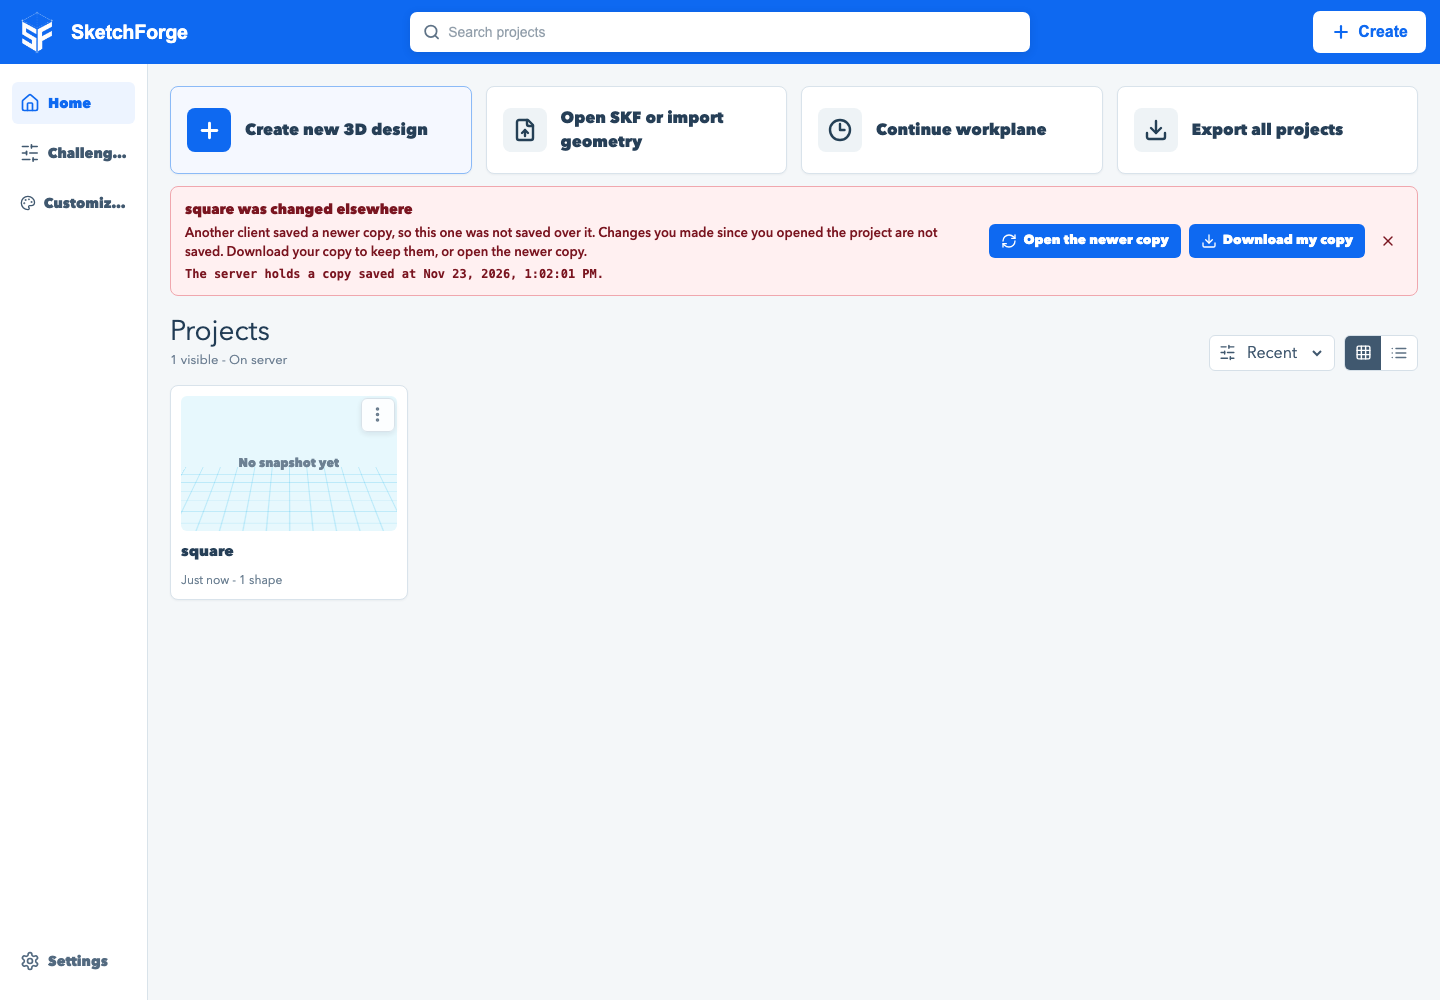
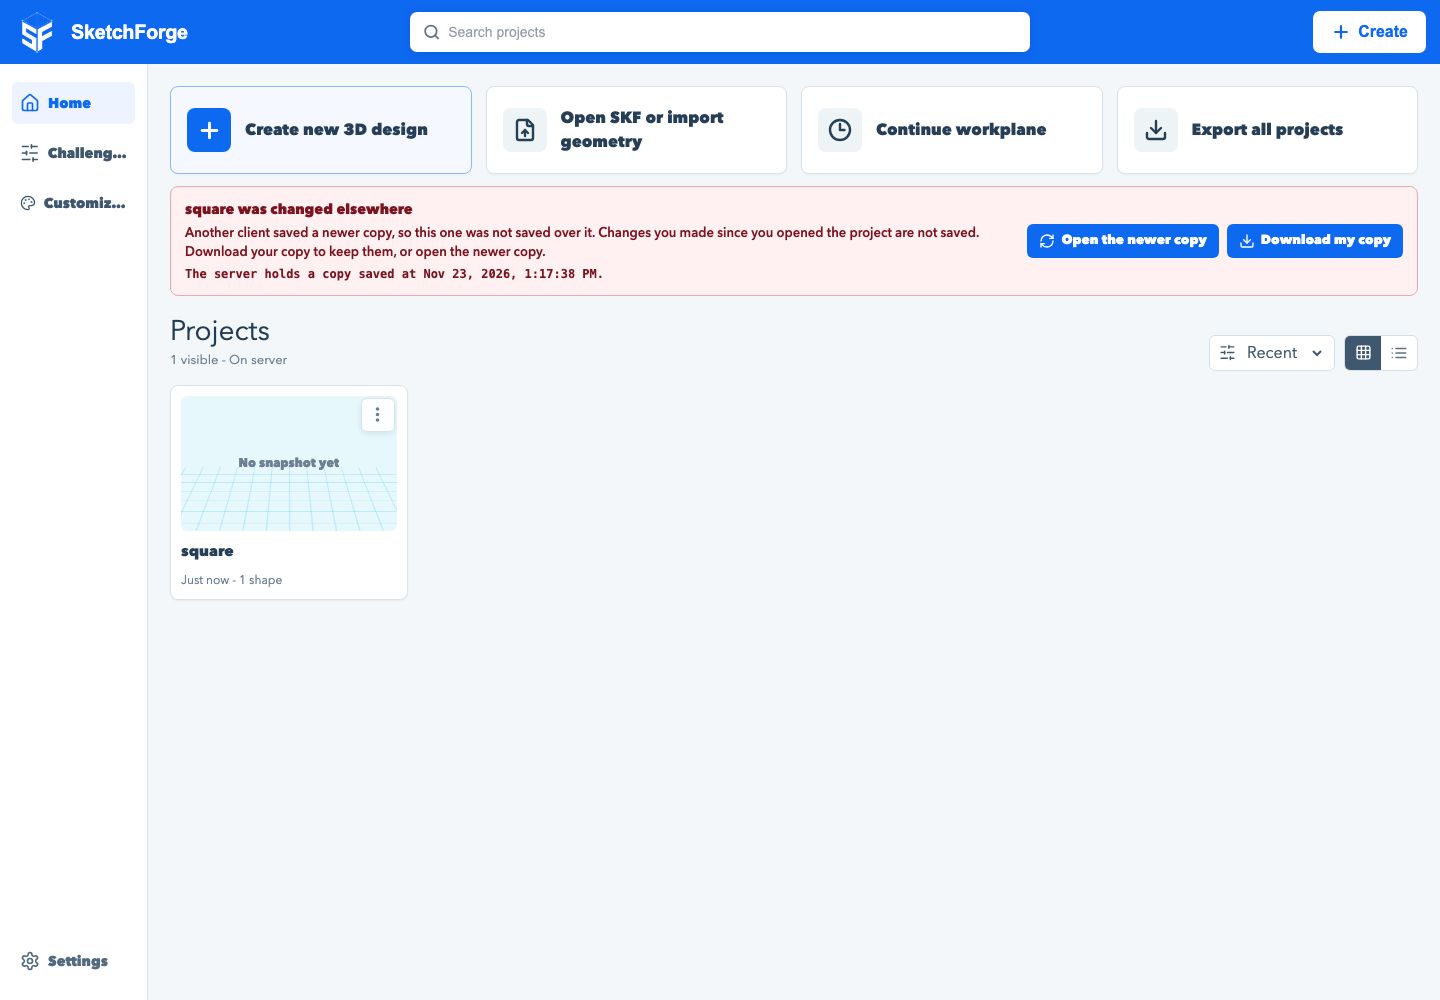
fix(web): keep every refused edit, survive clock skew, and base Start over on what was served
Review follow-ups for #650, in the dashboard.

- Download my copy kept only the save the server refused. An edit
  queued behind it was dropped by the guard and the cache entry was
  deleted, so the newest edits were lost. The page now records every
  editor snapshot and offers the newest of it and the refused save; a
  snapshot published after the conflict replaces it too.
- A client whose clock is behind the last writer's produced revisions
  older than the stored one, so every save was refused. Loading a copy
  now raises the revision counter past the served revision.
- The conflict banner has no Dismiss, so the unsaved copy stays
  downloadable until the newer copy is opened.
- Start over on a server project is based on the revision the failed
  load was served at, including a missing package's 404. If another
  client saved since, it is refused and says so.

Changed region(s): [[0.6562, 0.217, 1.0, 0.279], [0.125, 0.248, 0.4062, 0.279]]

diff --git a/apps/web/src/app/page.tsx b/apps/web/src/app/page.tsx
@@ -238,6 +238,8 @@ const projectWriteGuard = createProjectWriteGuard();
 // refuses a package write whose base is older than what it holds. No entry means
 // an unconditional write: a new project, or a confirmed start over.
 const serverBaseRevisions = new Map<string, number>();
+// The sidecar revision each server project was last served at, readable or not.
+const servedRevisions = new Map<string, number>();
 
 function openProjectShapesDb() {
   return new Promise<IDBDatabase>((resolve, reject) => {
@@ -286,7 +288,7 @@ function readProjectShapeRecord(database: IDBDatabase, projectId: string) {
 async function readStoredProjectCopy(projectId: string): Promise<{ bytes: Uint8Array; format: "skf" | "json" } | null> {
   if (serverProjectStorageActive) {
     const served = await fetchServerProjectPackage(projectId);
-    return served ? { bytes: served.bytes, format: "skf" } : null;
+    return served.bytes ? { bytes: served.bytes, format: "skf" } : null;
   }
   const database = await openProjectShapesDb();
   try {
@@ -352,9 +354,12 @@ async function loadProjectShapes(projectId: string) {
 async function readProjectShapes(projectId: string) {
   if (serverProjectStorageActive) {
     const served = await fetchServerProjectPackage(projectId);
+    // Kept even when the copy fails to load, so Start over replaces only what was seen.
+    if (served.revision === undefined) servedRevisions.delete(projectId);
+    else servedRevisions.set(projectId, served.revision);
     // The listing came from metadata sidecars, so this project has one. A missing or
     // symlinked package is not an empty project, and autosave must not replace it.
-    if (!served) throw new StoredProjectMissingError();
+    if (!served.bytes) throw new StoredProjectMissingError();
     const packageBytes = served.bytes;
     const restored = await readStoredPackage(packageBytes);
     return {
@@ -762,6 +767,7 @@ export default function Home() {
   const projectConflictRef = useRef<((projectId: string, job: ProjectSaveJob, error: ServerProjectConflictError) => void) | null>(null);
   // Copies a conflict kept from saving, so the user can still download them.
   const conflictedCopiesRef = useRef(new Map<string, ProjectSaveJob>());
+  const latestEditorCopiesRef = useRef(new Map<string, ProjectSaveJob>());
   if (projectSaveQueueRef.current === null) {
     projectSaveQueueRef.current = createCoalescingSaveQueue<ProjectSaveJob>({
       run: (projectId, job) => saveProjectShapesWhenIdle(projectId, job.entry, job.context),
@@ -1105,6 +1111,10 @@ export default function Home() {
           const serverRevision = record && "serverRevision" in record ? record.serverRevision : undefined;
           if (serverRevision === undefined) serverBaseRevisions.delete(activeProjectId);
           else serverBaseRevisions.set(activeProjectId, serverRevision);
+          latestEditorCopiesRef.current.delete(activeProjectId);
+          conflictedCopiesRef.current.delete(activeProjectId);
+          // Revisions come from this clock. One behind the writer's would make every save look older.
+          nextProjectRevisionRef.current = Math.max(nextProjectRevisionRef.current, loadedRevision, serverRevision ?? 0);
         }
         setProjectShapesById((current) => {
           // IndexedDB reads are asynchronous. A local edit/import can update the live
@@ -1324,13 +1334,9 @@ export default function Home() {
     placementWorkplane: PlacementWorkplane;
     sketchPlacementWorkplane: PlacementWorkplane;
   }) => {
-    // The editor publishes after a delay, so a snapshot can arrive after its load failed.
-    if (!projectWriteGuard.canWrite(snapshot.projectId)) return;
     const revision = Math.max(Date.now(), nextProjectRevisionRef.current + 1);
     nextProjectRevisionRef.current = revision;
     const entry = projectShapeCacheEntryFromEditor(revision, snapshot.shapes, snapshot.history, snapshot.historyIndex, snapshot.assets, snapshot.parameters, snapshot.configuration);
-    setProjectShapesById((current) => cacheWithEditorChange(current, snapshot.projectId, entry, projectWriteGuard));
-
     const saveContext: ProjectShapeSaveContext = {
       projectName: snapshot.projectName,
       createdAt: snapshot.projectCreatedAt,
@@ -1340,12 +1346,16 @@ export default function Home() {
       placementWorkplane: normalizePlacementWorkplane(snapshot.placementWorkplane, snapshot.placementElevation),
       sketchPlacementWorkplane: normalizePlacementWorkplane(snapshot.sketchPlacementWorkplane),
     };
-    projectSaveQueueRef.current?.enqueue(snapshot.projectId, {
-      entry,
-      context: saveContext,
-      revision,
-      shapeCount: snapshot.shapes.length,
-    });
+    const job: ProjectSaveJob = { entry, context: saveContext, revision, shapeCount: snapshot.shapes.length };
+    // The newest edit, so a refused save can still be downloaded with everything in it.
+    latestEditorCopiesRef.current.set(snapshot.projectId, job);
+    // The editor publishes after a delay, so a snapshot can arrive after its load failed.
+    if (!projectWriteGuard.canWrite(snapshot.projectId)) {
+      if (conflictedCopiesRef.current.has(snapshot.projectId)) conflictedCopiesRef.current.set(snapshot.projectId, job);
+      return;
+    }
+    setProjectShapesById((current) => cacheWithEditorChange(current, snapshot.projectId, entry, projectWriteGuard));
+    projectSaveQueueRef.current?.enqueue(snapshot.projectId, job);
     autosaveNoticeControllerRef.current?.pending(snapshot.projectId, saveContext.projectName);
   }, []);
 
@@ -1779,12 +1789,17 @@ export default function Home() {
     nextProjectRevisionRef.current = revision;
     const entry = projectShapeCacheEntry(revision, []);
     projectWriteGuard.release(project.id);
-    serverBaseRevisions.delete(project.id);
+    // Replace only the copy that was seen; a save made since then is refused.
+    const seen = servedRevisions.get(project.id);
+    if (seen === undefined) serverBaseRevisions.delete(project.id);
+    else serverBaseRevisions.set(project.id, seen);
     try {
       await saveProjectShapes(project.id, entry, projectShapeSaveContext(project));
     } catch (error) {
       projectWriteGuard.block(project.id);
-      setDashboardNotice(errorText(t, error, "dashboard.storage.saveFailed"));
+      setDashboardNotice(error instanceof ServerProjectConflictError
+        ? t("dashboard.loadFailure.startOverRefused", { name: project.name })
+        : errorText(t, error, "dashboard.storage.saveFailed"));
       return;
     }
     setProjectShapesById((current) => ({ ...current, [project.id]: entry }));
@@ -1817,7 +1832,9 @@ export default function Home() {
   };
 
   projectConflictRef.current = (projectId, job, error) => {
-    conflictedCopiesRef.current.set(projectId, job);
+    // The refused save may not be the newest edit: one can be queued, or still being published.
+    const latest = latestEditorCopiesRef.current.get(projectId);
+    conflictedCopiesRef.current.set(projectId, latest && latest.revision > job.revision ? latest : job);
     const savedAt = new Intl.DateTimeFormat(formattingLocale(locale), { dateStyle: "medium", timeStyle: "medium" }).format(new Date(error.storedRevision));
     setProjectLoadFailures((current) => ({
       ...current,
@@ -1843,7 +1860,9 @@ export default function Home() {
     clearProjectLoadFailure(projectId);
     projectWriteGuard.release(projectId);
     serverBaseRevisions.delete(projectId);
+    servedRevisions.delete(projectId);
     conflictedCopiesRef.current.delete(projectId);
+    latestEditorCopiesRef.current.delete(projectId);
     setProjects((current) => current.filter((project) => project.id !== projectId));
     setProjectShapesById((current) => {
       const next = { ...current };
@@ -2642,9 +2661,12 @@ function Dashboard({
                         {t("dashboard.loadFailure.startOver")}
                       </button>
                     ) : null}
-                    <button className="dashboard-load-failure-dismiss" type="button" aria-label={t("dashboard.loadFailure.dismiss", { name: project.name })} onClick={() => onDismissLoadFailure(project)}>
-                      <X size={16} />
-                    </button>
+                    {/* Dismissing would leave this client's unsaved copy with no way to download it. */}
+                    {kind !== "conflict" ? (
+                      <button className="dashboard-load-failure-dismiss" type="button" aria-label={t("dashboard.loadFailure.dismiss", { name: project.name })} onClick={() => onDismissLoadFailure(project)}>
+                        <X size={16} />
+                      </button>
+                    ) : null}
                   </div>
                 </section>
               ))}

diff --git a/tests/unit/projectWriteGuardWiring.test.ts b/tests/unit/projectWriteGuardWiring.test.ts
@@ -46,9 +46,22 @@ describe("dashboard package writes", () => {
     expect(write).toContain("serverBaseRevisions.set(projectId, entry.revision);");
   });
 
-  it("drops a late editor snapshot for a blocked project before it touches the cache", () => {
-    expect(page).toMatch(/const updateProjectShapes = useCallback\(\(snapshot: \{[\s\S]*?\}\) => \{\s*(?:\/\/[^\n]*\n\s*)*if \(!projectWriteGuard\.canWrite\(snapshot\.projectId\)\) return;/);
-    expect(page).toMatch(/setProjectShapesById\(\(current\) => cacheWithEditorChange\(current, snapshot\.projectId, entry, projectWriteGuard\)\)/);
+  it("bases a start over on the revision that was served, and raises the clock past a loaded revision", () => {
+    expect(page).toMatch(/const seen = servedRevisions\.get\(project\.id\);\s*if \(seen === undefined\) serverBaseRevisions\.delete\(project\.id\);\s*else serverBaseRevisions\.set\(project\.id, seen\);/);
+    expect(page).toMatch(/nextProjectRevisionRef\.current = Math\.max\(nextProjectRevisionRef\.current, loadedRevision, serverRevision \?\? 0\);/);
+  });
+
+  it("drops a late editor snapshot for a blocked project before it touches the cache or the queue", () => {
+    const body = page.slice(page.indexOf("const updateProjectShapes = useCallback("), page.indexOf("const updateProjectWorkspace = useCallback("));
+    const guard = body.indexOf("if (!projectWriteGuard.canWrite(snapshot.projectId)) {");
+    expect(guard).toBeGreaterThan(-1);
+    expect(body.slice(guard)).toMatch(/^if \(!projectWriteGuard\.canWrite\(snapshot\.projectId\)\) \{[^}]*return;\s*\}/);
+    expect(body.indexOf("setProjectShapesById(")).toBeGreaterThan(guard);
+    expect(body.indexOf(".enqueue(")).toBeGreaterThan(guard);
+    expect(body).toMatch(/setProjectShapesById\(\(current\) => cacheWithEditorChange\(current, snapshot\.projectId, entry, projectWriteGuard\)\)/);
+    // Recorded before the guard, so a refused save can still be downloaded with every edit.
+    expect(body.indexOf("latestEditorCopiesRef.current.set(snapshot.projectId, job)")).toBeGreaterThan(-1);
+    expect(body.indexOf("latestEditorCopiesRef.current.set(snapshot.projectId, job)")).toBeLessThan(guard);
   });
 
   it("blocks writes when a load fails", () => {

diff --git a/tests/unit/serverProjectPackageFetch.test.ts b/tests/unit/serverProjectPackageFetch.test.ts
@@ -26,13 +26,13 @@ describe("server project package request", () => {
   it("returns the bytes of a package response", async () => {
     for (const type of ["application/vnd.sketchforge.project+zip", "application/zip", "application/octet-stream"]) {
       answer(new Response(new Uint8Array([80, 75, 3, 4]), { status: 200, headers: { "Content-Type": type } }));
-      expect(Array.from((await fetchServerProjectPackage("project-1"))?.bytes ?? [])).toEqual([80, 75, 3, 4]);
+      expect(Array.from((await fetchServerProjectPackage("project-1")).bytes ?? [])).toEqual([80, 75, 3, 4]);
     }
   });
 
-  it("returns null for a project the server does not hold", async () => {
-    answer(new Response("{}", { status: 404, headers: { "Content-Type": "application/json" } }));
-    expect(await fetchServerProjectPackage("project-1")).toBeNull();
+  it("returns no bytes, with the sidecar revision, for a project whose package the server does not hold", async () => {
+    answer(new Response("{}", { status: 404, headers: { "Content-Type": "application/json", "X-SketchForge-Revision": "12" } }));
+    expect(await fetchServerProjectPackage("project-1")).toEqual({ bytes: null, revision: 12 });
   });
 
   it("names the status of a failed package request", async () => {
@@ -60,12 +60,12 @@ describe("server project package revisions", () => {
       status: 200,
       headers: { "Content-Type": "application/vnd.sketchforge.project+zip", "X-SketchForge-Revision": "42" },
     }));
-    expect((await fetchServerProjectPackage("project-1"))?.revision).toBe(42);
+    expect((await fetchServerProjectPackage("project-1")).revision).toBe(42);
   });
 
   it("leaves the revision unknown when the server does not send one", async () => {
     answer(new Response(new Uint8Array([80, 75]), { status: 200, headers: { "Content-Type": "application/zip" } }));
-    expect((await fetchServerProjectPackage("project-1"))?.revision).toBeUndefined();
+    expect((await fetchServerProjectPackage("project-1")).revision).toBeUndefined();
   });
 
   it("sends the base revision with a package write", async () => {

diff --git a/apps/web/src/lib/serverProjectStore.ts b/apps/web/src/lib/serverProjectStore.ts
@@ -130,23 +130,26 @@ export class ServerProjectConflictError extends Error {
   }
 }
 
-export async function fetchServerProjectPackage(projectId: string) {
+export async function fetchServerProjectPackage(projectId: string): Promise<{ bytes: Uint8Array | null; revision: number | undefined }> {
   let response: Response;
   try {
     response = await fetch(`${SERVER_PROJECTS_ENDPOINT}?projectId=${encodeURIComponent(projectId)}`, { cache: "no-store" });
   } catch (error) {
     throw new ServerPackageRequestError("network", error instanceof Error ? error.message : String(error));
   }
-  if (response.status === 404) return null;
+  const revision = servedRevision(response);
+  // No bytes, but the sidecar may exist; its revision is the base for replacing the package.
+  if (response.status === 404) return { bytes: null, revision };
   if (!response.ok) throw new ServerPackageRequestError("status", String(response.status));
   // A proxy or sign-in page can answer 200 with HTML; parsing that would call the project unreadable.
   const contentType = response.headers.get("content-type") ?? "";
   if (!PACKAGE_CONTENT_TYPE.test(contentType)) throw new ServerPackageRequestError("notPackage", contentType || "none");
+  return { bytes: new Uint8Array(await response.arrayBuffer()), revision };
+}
+
+function servedRevision(response: Response) {
   const revision = Number(response.headers.get(SERVER_PROJECT_REVISION_HEADER) ?? Number.NaN);
-  return {
-    bytes: new Uint8Array(await response.arrayBuffer()),
-    revision: Number.isFinite(revision) ? revision : undefined,
-  };
+  return Number.isFinite(revision) ? revision : undefined;
 }
 
 const PACKAGE_CONTENT_TYPE = /^application\/(?:zip|octet-stream|[\w.-]+\+zip)\s*(?:;|$)/i;

diff --git a/docs/guides/editor-quickstart.md b/docs/guides/editor-quickstart.md
@@ -70,7 +70,9 @@ In browser storage, another tab may save a newer copy that this tab cannot read.
 Several browsers, or the desktop app, can share one server project directory. Each save says which revision of the project it started from, and the server refuses a save when another client has saved a newer revision since. The editor then closes and the dashboard says the project was changed elsewhere:
 
 - **Open the newer copy** loads what the other client saved. Changes this client made since it opened the project are not kept.
-- **Download my copy** saves this client's unsaved copy as `<name> (my copy).skf`, so you can compare the two or open it as a separate project.
+- **Download my copy** saves this client's unsaved copy, with every edit made before the save was refused, as `<name> (my copy).skf`. You can compare the two, or open it as a separate project.
+
+The message stays until you open the newer copy, so the unsaved copy can always be downloaded first.
 
 ![The dashboard reporting a project another client changed.](../screenshots/server-storage-conflict.png)
 
@@ -78,7 +80,7 @@ When a browser window comes back into view, it checks the server for newer copie
 
 ### When the server has no package for a project
 
-If the server holds a project's details but not its `.skf` package, or the package is a symlink or another file that is not a regular file, the project does not open as an empty project. The dashboard says the project has no stored package and offers **Try again** and **Start over**. **Start over** replaces the missing package, or the symlink itself, with an empty project; it does not write through a symlink.
+If the server holds a project's details but not its `.skf` package, or the package is a symlink or another file that is not a regular file, the project does not open as an empty project. The dashboard says the project has no stored package and offers **Try again** and **Start over**. **Start over** replaces the missing package, or the symlink itself, with an empty project; it does not write through a symlink. If another client saves the project after this one read it, **Start over** is refused, and **Try again** opens that client's copy.
 
 ![The dashboard reporting a server project with no stored package.](../screenshots/server-storage-missing-package.png)
 
